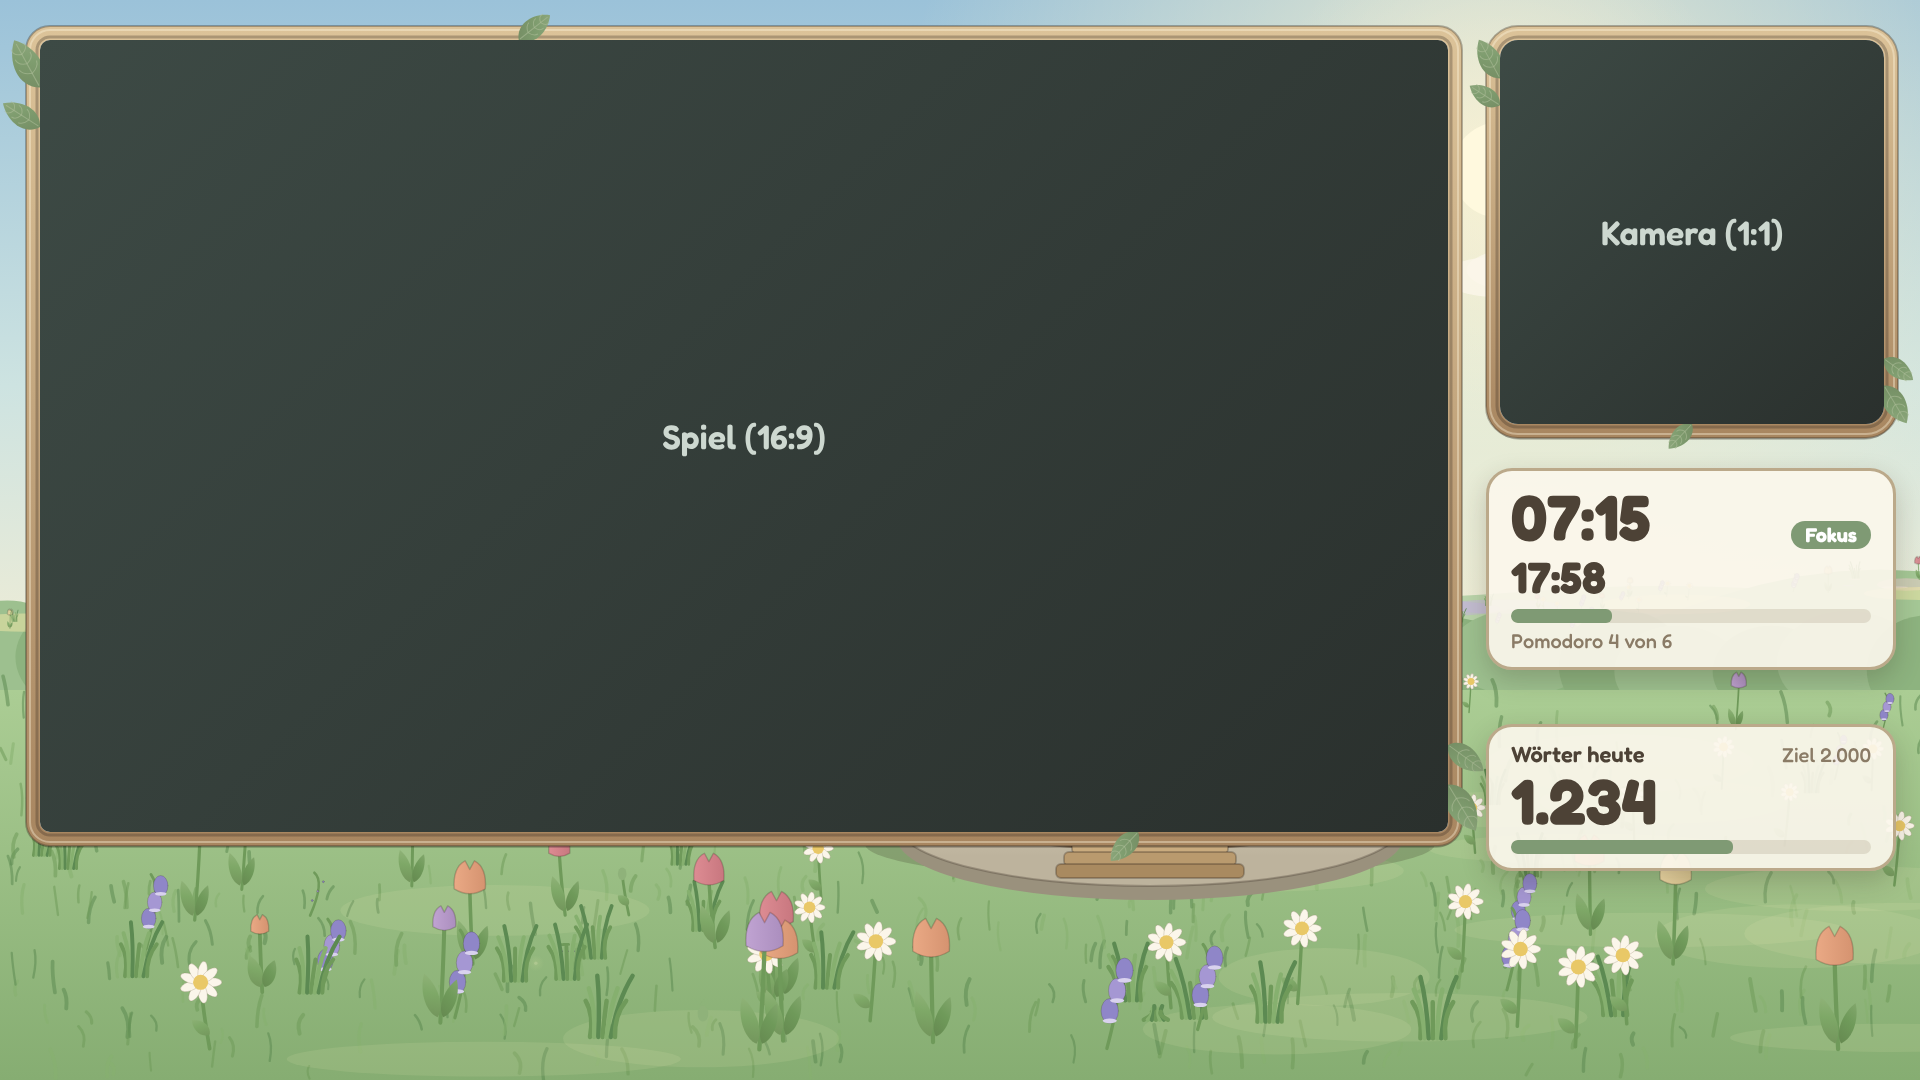
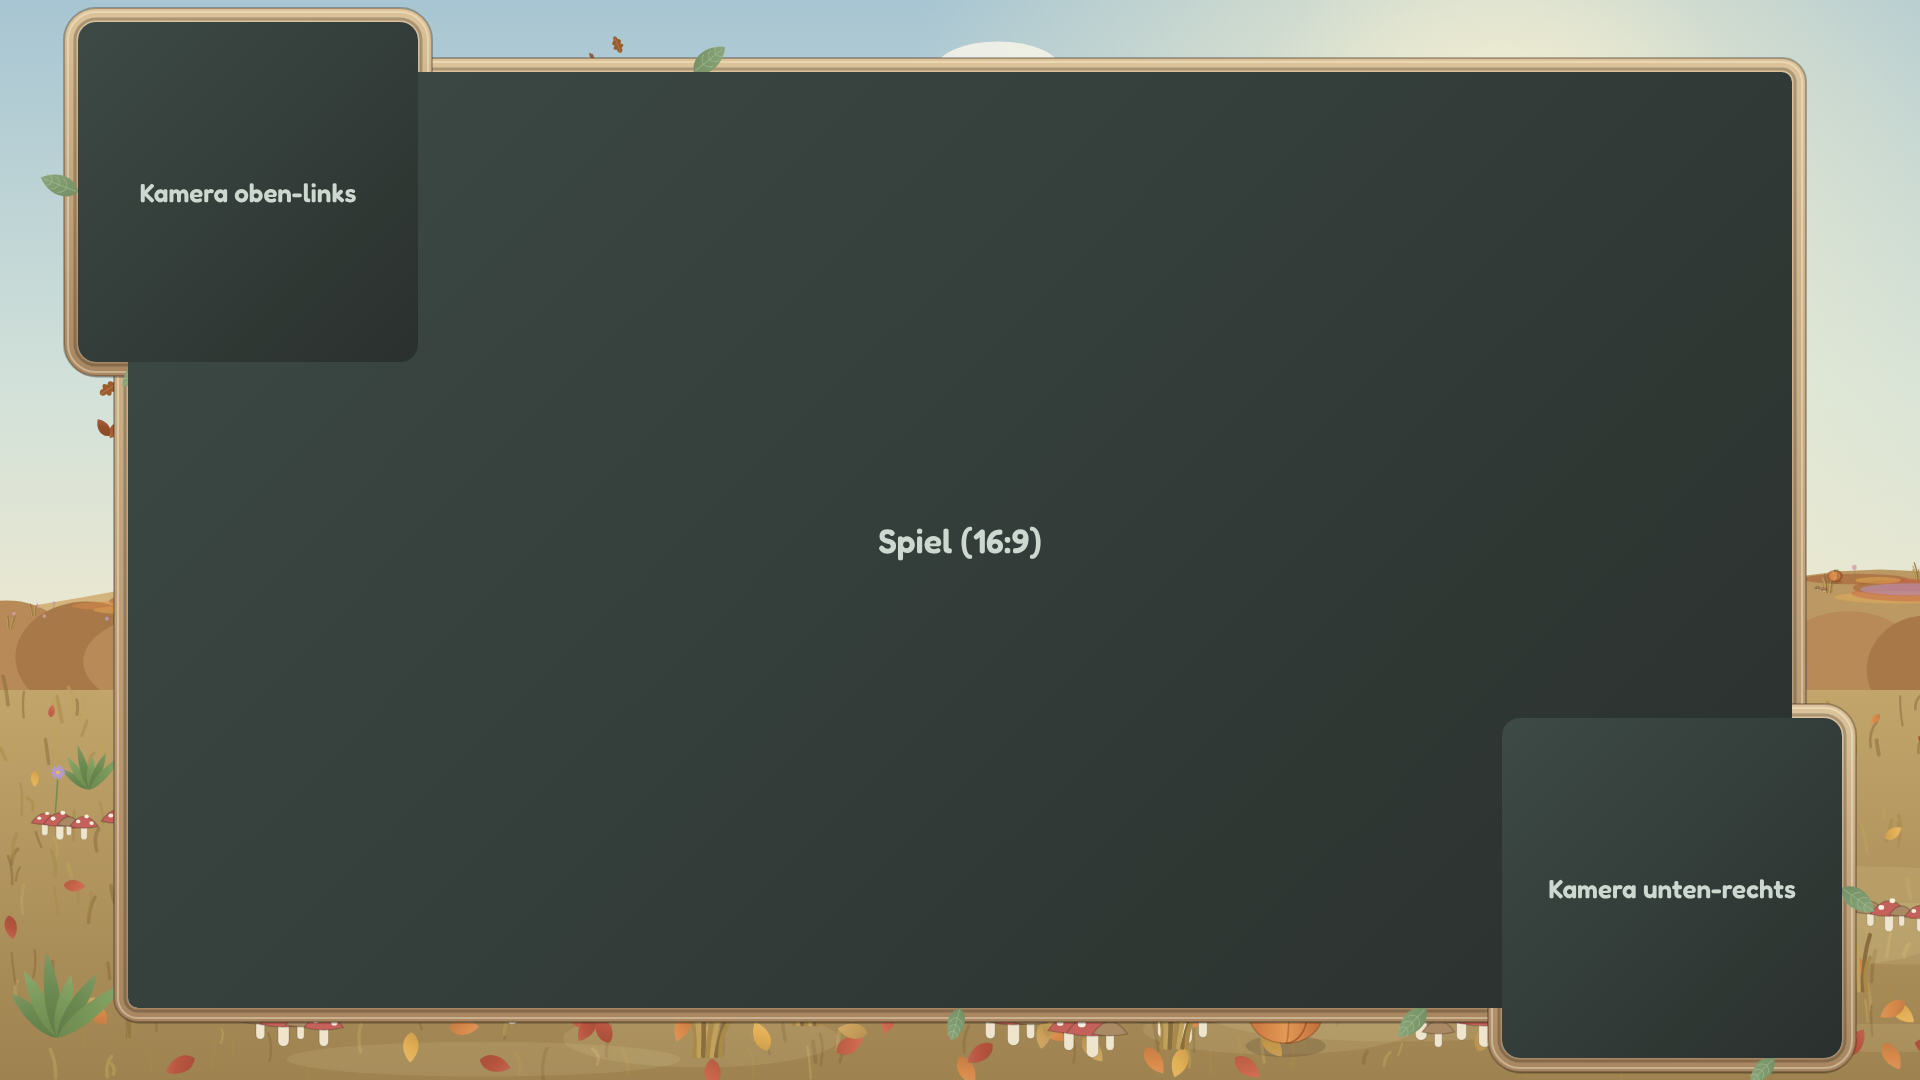
Gaming-Szene: ohne Pomodoro, größeres Spielfenster, Kamerafenster wählbar in den Ecken
Claude-Session: https://claude.ai/code/session_01DH9G6H3KggKZELGACVq2sG

diff --git a/public/gaming.html b/public/gaming.html
@@ -4,139 +4,62 @@
 <meta charset="utf-8">
 <title>Gaming-Overlay</title>
 <meta name="viewport" content="width=device-width, initial-scale=1">
-<!-- OBS: Browser-Quelle 1920×1080 mit /gaming. Darunter (in dieser Reihenfolge, unten beginnend):
-     Spiel-Aufnahme (auf 16:9 skalieren), Kamera (quadratisch zuschneiden). Beide scheinen durch die Fenster.
-     Teile wählbar: /gaming?teile=uhr,ziel (Standard: beide). Vorschau ohne Bot: ?demo=1. Platzhalter für die Fenster: ?platzhalter=1.
+<!-- OBS: Browser-Quelle 1920×1080 mit /gaming. Darunter (von unten): Spiel-Aufnahme (16:9), darüber die Kamera (quadratisch zugeschnitten).
+     Kamerafenster wählen: /gaming?kamera=oben-rechts (Standard). Mehrere: ?kamera=oben-links,unten-rechts. Keine: ?kamera=aus.
+     Größe der Kamera in Pixeln: &groesse=340. Vorschau ohne Bot: ?demo=1. Platzhalter in den Fenstern: ?platzhalter=1.
      Jahres- und Tageszeit der Landschaft kommen aus dem Admin (Landschaft). -->
 <style>
-@font-face { font-family: Fredoka; font-weight: 500; src: url(fonts/fredoka-latin-500-normal.woff2) format('woff2'); }
 @font-face { font-family: Fredoka; font-weight: 600; src: url(fonts/fredoka-latin-600-normal.woff2) format('woff2'); }
-@font-face { font-family: Fredoka; font-weight: 700; src: url(fonts/fredoka-latin-700-normal.woff2) format('woff2'); }
-:root { --papier: rgba(251, 246, 235, .92); --rand: #bba98a; --text: #4d4236; --leise: #8a7b66; --fokus: #7f9a74; --pause: #c9985c; --bereit: #a09280; }
 * { box-sizing: border-box; margin: 0; }
-html, body { width: 100%; height: 100%; overflow: hidden; background: transparent; font-family: Fredoka, system-ui, sans-serif; color: var(--text); }
+html, body { width: 100%; height: 100%; overflow: hidden; background: transparent; font-family: Fredoka, system-ui, sans-serif; }
 #stage { position: absolute; left: 0; top: 0; width: 1920px; height: 1080px; transform-origin: 0 0; }
 #szene { position: absolute; inset: 0; width: 1920px; height: 1080px; }
 .platz { position: absolute; display: none; align-items: center; justify-content: center; background: linear-gradient(135deg, #3d4a45, #2a302d); color: #cdd8d0; font-size: 34px; font-weight: 600; }
 body.platzhalter .platz { display: flex; }
-.card { position: absolute; left: 1486px; width: 410px; background: var(--papier); border: 3px solid var(--rand); border-radius: 26px; box-shadow: 0 10px 26px rgba(50, 40, 28, .22); padding: 14px 22px; }
-.klein { font-size: 20px; color: var(--leise); font-weight: 500; }
-.bar { height: 14px; border-radius: 8px; background: rgba(120, 100, 70, .16); overflow: hidden; }
-.bar i { display: block; height: 100%; width: 0; border-radius: 6px; background: var(--fokus); transition: width .9s ease, background .4s; }
-#uhr { top: 468px; }
-#uhr .oben { display: flex; align-items: flex-end; justify-content: space-between; }
-#uhr .zeit { font-weight: 700; font-size: 64px; line-height: 1; font-variant-numeric: tabular-nums; }
-#uhr .rest { font-weight: 700; font-size: 44px; line-height: 1.1; margin: 4px 0 8px; font-variant-numeric: tabular-nums; }
-#uhr.phase-idle .rest { font-size: 26px; font-weight: 600; color: var(--leise); padding: 8px 0 10px; }
-#uhr .zeile { display: flex; align-items: center; gap: 12px; margin-top: 4px; }
-.chip { padding: 2px 14px; border-radius: 20px; font-weight: 700; font-size: 20px; color: #fff; background: var(--bereit); transition: background .4s; }
-.phase-focus .chip, .phase-focus .bar i { background: var(--fokus); } .phase-break .chip, .phase-break .bar i { background: var(--pause); }
-#ziel { top: 724px; }
-#ziel .kopf { display: flex; justify-content: space-between; align-items: baseline; font-size: 22px; font-weight: 600; }
-#ziel .zahl { font-weight: 700; font-size: 64px; line-height: 1.05; font-variant-numeric: tabular-nums; }
-#ziel .bar { margin-top: 6px; }
-#ziel.geschafft .bar i { background: #d3a85a; } #ziel.geschafft .zahl { color: #a9783a; }
-[hidden] { display: none !important; }
 </style>
 </head>
 <body>
 <div id="stage">
   <canvas id="szene" width="1920" height="1080"></canvas>
   <div class="platz" id="platzSpiel">Spiel (16:9)</div>
-  <div class="platz" id="platzKamera">Kamera (1:1)</div>
-  <section class="card phase-idle" id="uhr" hidden>
-    <div class="oben"><div class="zeit" id="zeit">--:--</div><span class="chip" id="chip">Bereit</span></div>
-    <div class="rest" id="rest">Gleich geht's los</div>
-    <div class="bar"><i id="fortschritt"></i></div>
-    <div class="klein" id="runde" style="margin-top:6px"></div>
-  </section>
-  <section class="card" id="ziel" hidden>
-    <div class="kopf"><span id="zlabel">Wörter heute</span><span class="klein" id="zziel"></span></div>
-    <div class="zahl" id="zahl">0</div>
-    <div class="bar"><i id="zbalken"></i></div>
-  </section>
+  <div id="platzKameras"></div>
 </div>
 
 <script type="module">
 import { Wachstum } from './js/wachstum.mjs';
-import { GAMING, drawGamingFrames } from './js/gaming.mjs';
+import { KAMERA, SPIEL, drawGamingFrames, kameraRect, parseEcken } from './js/gaming.mjs';
 
 const q = new URLSearchParams(location.search);
-const teile = new Set((q.get('teile') ?? 'uhr,ziel').split(',').map((s) => s.trim()));
 const demo = q.has('demo');
+const ecken = parseEcken(q.get('kamera'));
+const size = Math.min(700, Math.max(160, Number(q.get('groesse')) || KAMERA));
 const $ = (id) => document.getElementById(id);
-const pad = (n) => String(n).padStart(2, '0');
-const fmt = new Intl.NumberFormat('de-DE');
 const stage = $('stage');
 const fit = () => { stage.style.transform = `scale(${Math.min(innerWidth / 1920, innerHeight / 1080)})`; };
 addEventListener('resize', fit); fit();
 
 if (q.has('platzhalter') || demo) document.body.classList.add('platzhalter');
-for (const [id, r] of [['platzSpiel', GAMING.spiel], ['platzKamera', GAMING.kamera]]) {
-  Object.assign($(id).style, { left: `${r.x}px`, top: `${r.y}px`, width: `${r.w}px`, height: `${r.h}px`, borderRadius: id === 'platzSpiel' ? '10px' : '18px' });
-}
+const place = (el, r, radius) => Object.assign(el.style, { left: `${r.x}px`, top: `${r.y}px`, width: `${r.w}px`, height: `${r.h}px`, borderRadius: `${radius}px` });
+place($('platzSpiel'), SPIEL, 10);
+for (const e of ecken) { const el = document.createElement('div'); el.className = 'platz'; el.textContent = `Kamera ${e}`; el.style.fontSize = '26px'; place(el, kameraRect(e, size), 18); $('platzKameras').append(el); }
 
 const c = $('szene').getContext('2d');
 const wachstum = new Wachstum();
-let view = null, cursor = null, offset = 0, shown = 0, target = 0, numeric = true;
+let view = null;
 
-function demoView() {
-  return {
-    now: Date.now(), jahreszeit: q.get('jahreszeit') ?? 'fruehling', tageszeit: q.get('tageszeit') ?? 'mittag', progress: Number(q.get('fortschritt') ?? 0.55),
-    stefanie: { figur: { haut: '2', haare: 'braun', frisur: 'lang', oberteil: 'gruen', kopf: 'keine', gesicht: 'brille', hals: 'keine', tier: 'keine', tisch: 'laptop', getraenk: 'tee' }, taetigkeit: 'laptop' },
-    pomodoro: { done: 3, goal: 6, minutes: 25 }, ziel: { art: 'woerter', label: 'Wörter heute', numeric: true, current: 1234, goal: 2000, fraction: 0.617 },
-    timer: { phase: q.get('phase') ?? 'focus', startedAt: Date.now() - 7 * 60000, endsAt: Date.now() + 18 * 60000 },
-  };
-}
-
-function render() {
-  const t = view.timer, pm = view.pomodoro ?? { done: 0, goal: 0 };
-  $('uhr').hidden = !teile.has('uhr');
-  $('uhr').className = `card phase-${t.phase}`;
-  $('chip').textContent = t.phase === 'focus' ? 'Fokus' : t.phase === 'break' ? 'Pause' : 'Bereit';
-  $('runde').textContent = t.phase === 'focus' ? `Pomodoro ${pm.done + 1}${pm.goal ? ` von ${pm.goal}` : ''}` : pm.goal ? `${pm.done} von ${pm.goal} Pomodoros geschafft` : '';
-  const z = view.ziel;
-  $('ziel').hidden = !teile.has('ziel') || !z;
-  if (!z) return;
-  $('zlabel').textContent = z.label; numeric = z.numeric;
-  if (z.numeric) { target = z.current; $('zziel').textContent = z.goal ? `Ziel ${fmt.format(z.goal)}` : ''; } else $('zziel').textContent = `Ziel ${z.goalText} Std`;
-  $('zbalken').style.width = `${Math.min(100, (z.fraction || 0) * 100)}%`;
-  $('ziel').classList.toggle('geschafft', z.goal > 0 && z.fraction >= 1);
-}
-
-function tick() {
-  const d = new Date();
-  $('zeit').textContent = `${pad(d.getHours())}:${pad(d.getMinutes())}`;
-  if (!view) return;
-  const z = view.ziel;
-  if (z && !z.numeric) {
-    const ms = z.startedAt ? Math.max(0, Date.now() + offset - z.startedAt) : 0, m = Math.floor(ms / 60000);
-    $('zahl').textContent = `${Math.floor(m / 60)}:${pad(m % 60)}`;
-    $('zbalken').style.width = `${Math.min(100, (ms / (z.goalMinutes * 60000)) * 100)}%`;
-  }
-  const t = view.timer;
-  if (t.phase === 'idle') { $('rest').textContent = "Gleich geht's los"; $('fortschritt').style.width = '0%'; return; }
-  const now = Date.now() + offset, s = Math.ceil(Math.max(0, t.endsAt - now) / 1000);
-  $('rest').textContent = `${pad(Math.floor(s / 60))}:${pad(s % 60)}`;
-  $('fortschritt').style.width = `${Math.min(1, (now - t.startedAt) / (t.endsAt - t.startedAt)) * 100}%`;
-}
-
-function apply(data) {
-  const first = view === null;
-  offset = (data.now ?? Date.now()) - Date.now();
-  view = data;
-  if (data.cursor) cursor = data.cursor;
-  render();
-  if (first) shown = target;
-}
+const demoView = () => ({
+  now: Date.now(), jahreszeit: q.get('jahreszeit') ?? 'fruehling', tageszeit: q.get('tageszeit') ?? 'mittag', progress: Number(q.get('fortschritt') ?? 0.55),
+  stefanie: { figur: { haut: '2', haare: 'braun', frisur: 'lang', oberteil: 'gruen', kopf: 'keine', gesicht: 'brille', hals: 'keine', tier: 'keine', tisch: 'laptop', getraenk: 'tee' }, taetigkeit: 'laptop' },
+  timer: { phase: 'idle' },
+});
 
 async function poll() {
   try {
-    const res = await fetch(`/api/overlay${cursor ? `?since=${encodeURIComponent(cursor)}` : ''}`, { cache: 'no-store' });
-    if (res.ok) apply(await res.json());
+    const res = await fetch('/api/overlay', { cache: 'no-store' });
+    if (res.ok) view = await res.json();
   } catch { /* beim nächsten Mal wieder */ }
 }
-if (demo) apply(demoView()); else { await poll(); setInterval(poll, 3000); }
+if (demo) view = demoView(); else { await poll(); setInterval(poll, 10000); }
 
 let last = 0;
 function frame(t) {
@@ -146,12 +69,9 @@ function frame(t) {
   c.clearRect(0, 0, 1920, 1080);
   if (view) wachstum.draw(c, view, t);
   else { c.fillStyle = '#cfdcb8'; c.fillRect(0, 0, 1920, 1080); }
-  drawGamingFrames(c);
-  if (shown !== target) { shown += (target - shown) * 0.12; if (Math.abs(target - shown) < 1) shown = target; }
-  if (numeric && view?.ziel) $('zahl').textContent = fmt.format(Math.round(shown));
+  drawGamingFrames(c, ecken, size);
 }
 requestAnimationFrame(frame);
-setInterval(tick, 250); tick();
 </script>
 </body>
 </html>

diff --git a/public/admin/admin.js b/public/admin/admin.js
@@ -2,6 +2,9 @@ import { ITEMS, SLOTS, SZENEN, slotValues } from '../js/katalog.mjs';
 import { DEFAULT_LAYOUT, normalizeLayout } from '../js/layout.mjs';
 
 const $ = (id) => document.getElementById(id);
+const GAMING_ECKEN = [['oben-links', 'oben links'], ['oben-rechts', 'oben rechts'], ['unten-links', 'unten links'], ['unten-rechts', 'unten rechts']];
+let gamingWahl = new Set(['oben-rechts']);
+try { const g = localStorage.getItem('gamingEcken'); if (g !== null) gamingWahl = new Set(g.split(',').filter(Boolean)); } catch { /* ohne Speicher */ }
 const esc = (s) => String(s).replace(/[&<>"]/g, (c) => ({ '&': '&amp;', '<': '&lt;', '>': '&gt;', '"': '&quot;' })[c]);
 
 async function api(method, path, body) {
@@ -41,11 +44,15 @@ async function loadState() {
   ];
   $('status').innerHTML = rows.join('');
   const u = state.urls;
+  const gamingLink = () => `${u.gaming}?kamera=${gamingWahl.size ? GAMING_ECKEN.map(([k]) => k).filter((k) => gamingWahl.has(k)).join(',') : 'aus'}`;
   const urlRow = (label, url, hint = '') => `<div class="url"><b>${label}</b> <code>${esc(url)}</code><button class="hell" data-copy="${esc(url)}">Kopieren</button></div>${hint ? `<div class="leise">${hint}</div>` : ''}`;
   $('urls').innerHTML = urlRow('OBS-Overlay', u.overlay, 'Browser-Quelle 1920×1080, „Audio über OBS steuern“ aktivieren. Die Kamera in OBS <b>unter</b> das Overlay legen. Nur einzelne Teile: <code>?teile=uhr,woerter,tasks,musik,szene</code>')
-    + urlRow('Gaming-Overlay', u.gaming, 'Zusätzliche Browser-Quelle 1920×1080 für Gaming-Streams: Spiel (16:9) und Kamera (1:1) in OBS <b>darunter</b> legen, sie scheinen durch die Rahmen.')
+    + `<div class="url"><b>Gaming-Overlay</b> <code id="gamingUrl"></code><button class="hell" id="gamingKopieren">Kopieren</button></div><div class="reihe" id="gamingEcken" style="margin:4px 0"><span class="leise">Kamerafenster in den Ecken:</span>${GAMING_ECKEN.map(([k, l]) => `<label><input type="checkbox" data-ecke="${k}"${gamingWahl.has(k) ? ' checked' : ''}> ${l}</label>`).join(' ')}</div><div class="leise">Zusätzliche Browser-Quelle 1920×1080 für Gaming: Spiel (16:9) in OBS ganz unten, die Kamera <b>darüber</b>, beide unter dem Overlay. Hake nur die Ecken an, in denen du eine Kamera brauchst. Nicht angehakte Fenster fehlen ganz.</div>`
     + urlRow('Twitch-Weiterleitung', u.redirect, 'Diese Adresse muss in der Twitch-Entwickler-App als „OAuth Redirect URL“ stehen.')
     + urlRow('Wörter-Schnittstelle', u.words, `Für ein Hilfsprogramm (Papyrus): <code>POST</code> mit <code>Authorization: Bearer &lt;INGEST_TOKEN&gt;</code> und <code>{"absolute": 4231}</code>. ${e.INGEST_TOKEN ? 'INGEST_TOKEN ist gesetzt.' : 'INGEST_TOKEN ist noch nicht gesetzt.'}`);
+  $('gamingUrl').textContent = gamingLink();
+  for (const cb of document.querySelectorAll('[data-ecke]')) cb.onchange = () => { cb.checked ? gamingWahl.add(cb.dataset.ecke) : gamingWahl.delete(cb.dataset.ecke); try { localStorage.setItem('gamingEcken', [...gamingWahl].join(',')); } catch {} $('gamingUrl').textContent = gamingLink(); };
+  $('gamingKopieren').onclick = () => navigator.clipboard.writeText(gamingLink()).then(() => meldung('Kopiert'));
   for (const b of document.querySelectorAll('[data-copy]')) b.onclick = () => navigator.clipboard.writeText(b.dataset.copy).then(() => meldung('Kopiert'));
   renderTimer();
   renderWords(state.words);

diff --git a/README.md b/README.md
@@ -44,7 +44,7 @@ Die **Tageszeit** (Morgengrauen, Mittag, Abend mit Mond, Sternen und Glühwürmc
 
 **Kamerafenster (1:1).** Ein quadratischer Rahmen mit durchsichtigem Ausschnitt. **In OBS die Kamera unter das Overlay legen**, dann schaut sie durch das Fenster. Position und Seitenlänge stellst du in der Anordnung ein.
 
-**Gaming-Szene (`/gaming`).** Ein zweites Overlay für Gaming-Streams, als eigene Browser-Quelle (1920×1080) in OBS. Es zeigt die Landschaft (Jahres- und Tageszeit wie im Admin) mit einem dünnen, gemütlichen Holzrahmen um das **Spielfenster im 16:9-Format** (1408×792) und einem **quadratischen Kamerarahmen** (384×384) mit Uhr/Pomodoro und Ziel-Karte darunter. In OBS liegen Spiel-Aufnahme und Kamera **unter** dem Overlay und scheinen durch die ausgeschnittenen Fenster. Mit `?platzhalter=1` siehst du die Fenster, `?teile=uhr,ziel` wählt die Karten, `?demo=1` zeigt Beispieldaten. Die Maße stehen in `public/js/gaming.mjs`.
+**Gaming-Szene (`/gaming`).** Ein zweites Overlay für Gaming-Streams, als eigene Browser-Quelle (1920×1080) in OBS, ohne Pomodoro und Karten. Es zeigt die Landschaft (Jahres- und Tageszeit wie im Admin) mit einem dünnen, gemütlichen Holzrahmen um das **Spielfenster im 16:9-Format** (1664×936). Dazu gibt es bis zu vier **quadratische Kamerafenster**, die über die Ecken des Spielrahmens ragen. Welche Ecken du brauchst, hakst du im Admin bei den Links an (der Link passt sich an); nicht angehakte Fenster fehlen ganz. Von Hand: `?kamera=oben-rechts` (Standard), `?kamera=oben-links,unten-rechts`, `?kamera=aus`, `&groesse=340` (Kamera in Pixeln), `?platzhalter=1` zeigt die Fenster, `?demo=1` Beispieldaten. In OBS liegt die Spielaufnahme ganz unten, **darüber die Kamera**, beide unter dem Overlay. Die Maße stehen in `public/js/gaming.mjs`.
 
 **Zimmer-Modus (pausiert).** Die Szenen mit Tischen, an denen Zuschauer als Chibi-Figuren sitzen (Café, Garten, Park, mit Rängen und freischaltbaren Gegenständen), bleiben im Code erhalten. Unter *Einstellungen → Darstellung* lassen sie sich wieder einschalten. In der Landschaft sind die Befehle dafür ausgeschaltet.
 
